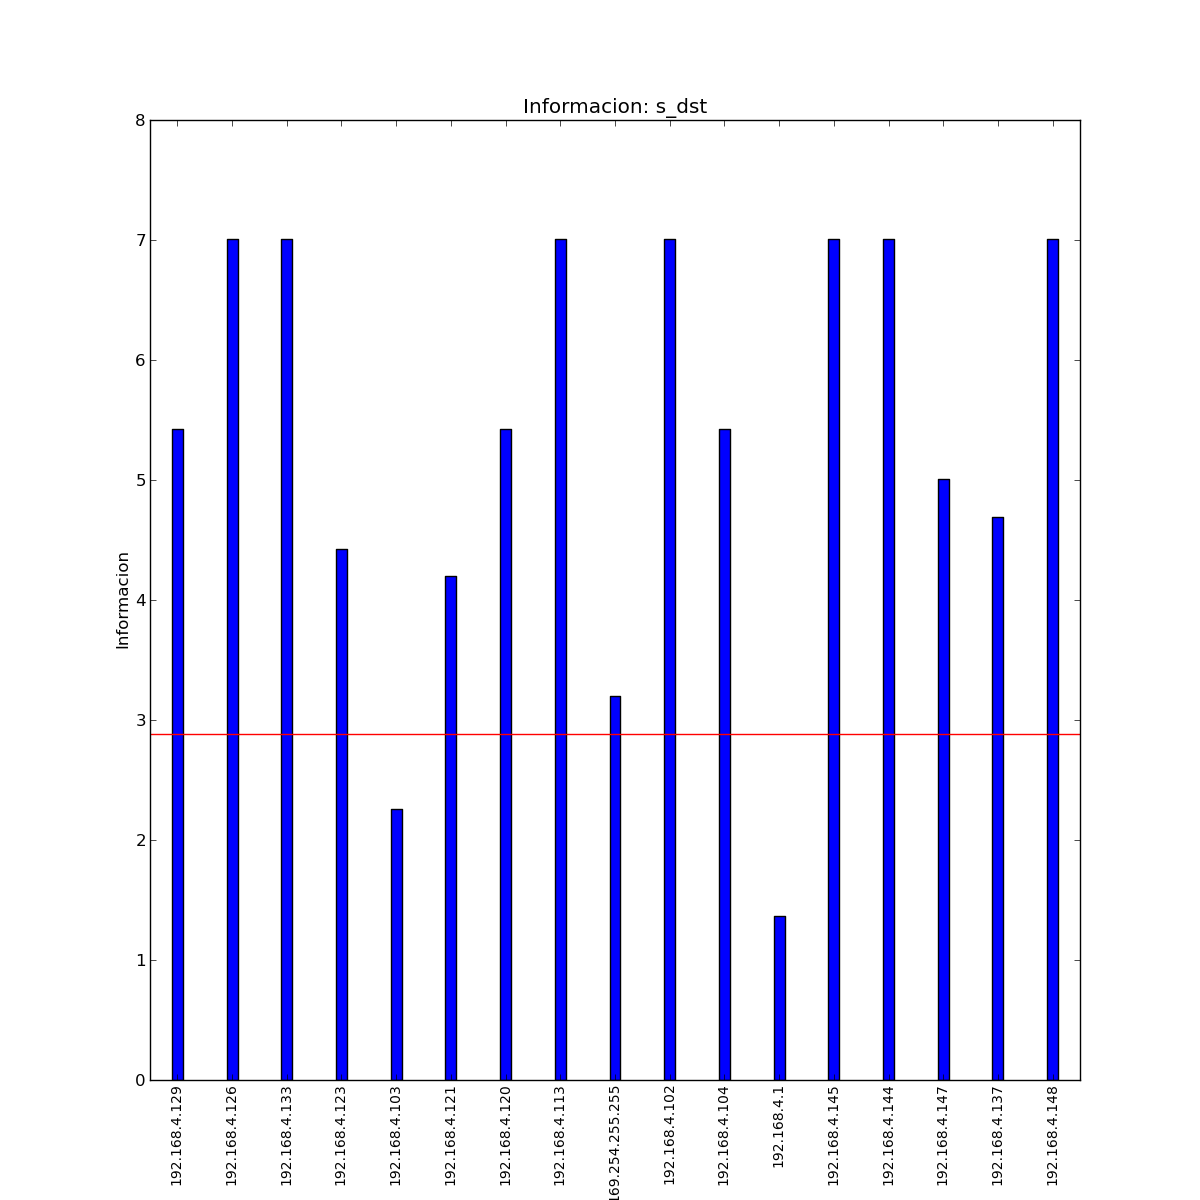
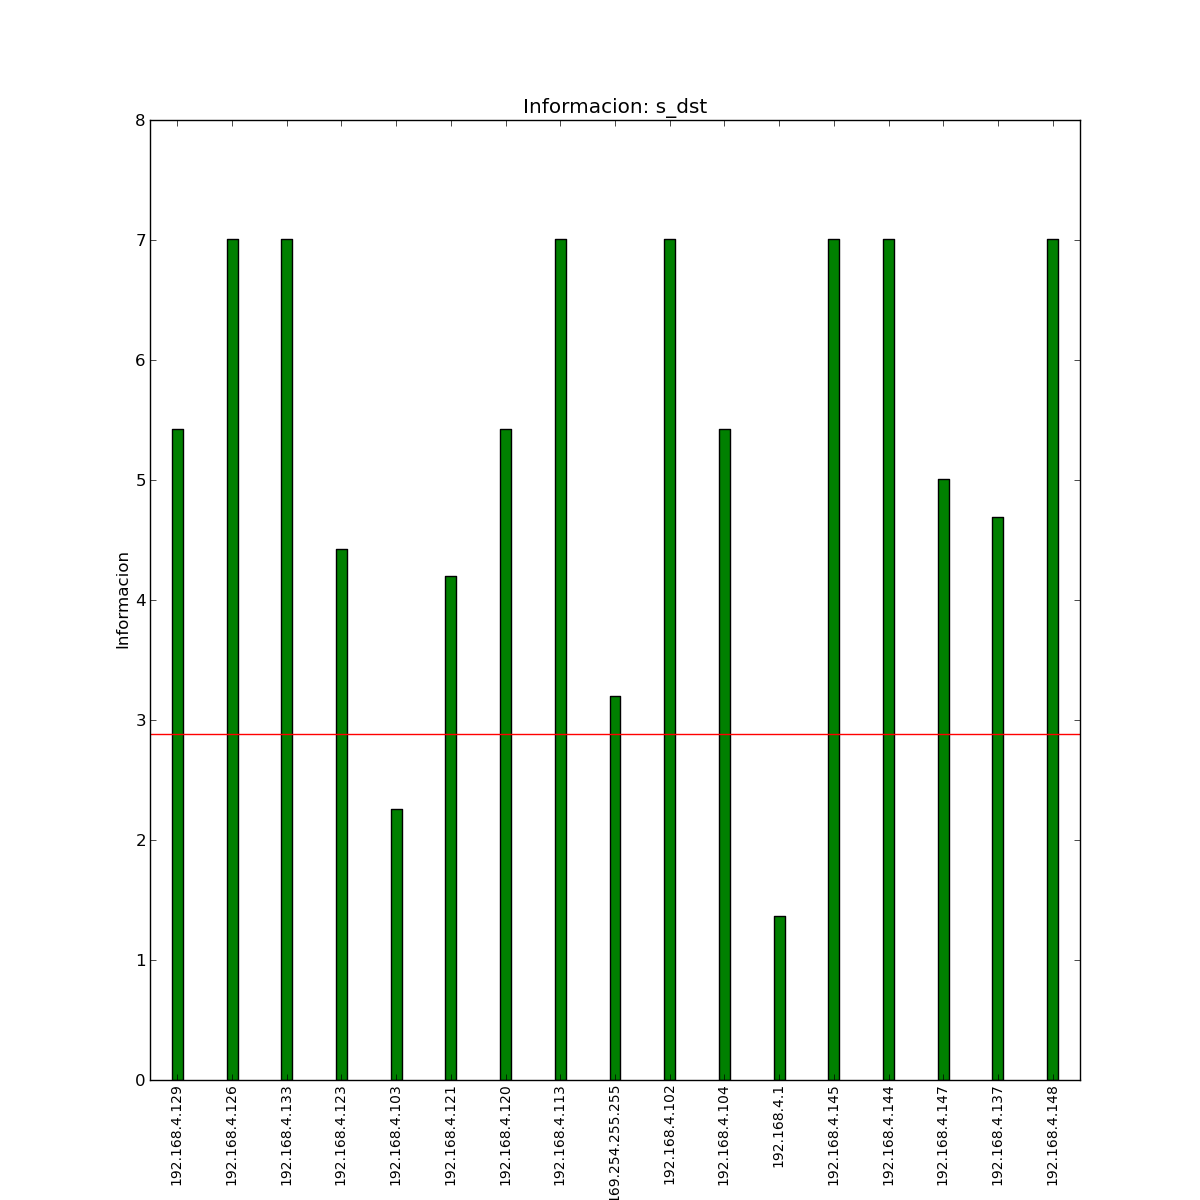
graficos verdes

diff --git a/arp_analysis_tool.py b/arp_analysis_tool.py
@@ -73,7 +73,7 @@ def plot_info(source, hist, entropy, basename):
   labels = hist.keys()
   f = plt.figure('info_{source}'.format(source=source), [12, 12])
   plt.xlim([-2, x[-1] + 2])
-  plt.bar(x, y, align='center')
+  plt.bar(x, y, align='center', color="green")
   plt.axhline(entropy, color='r',label='entropia')
   plt.xticks(x, labels, size='small',rotation='vertical')
   plt.title('Informacion: {source}'.format(source=source))
